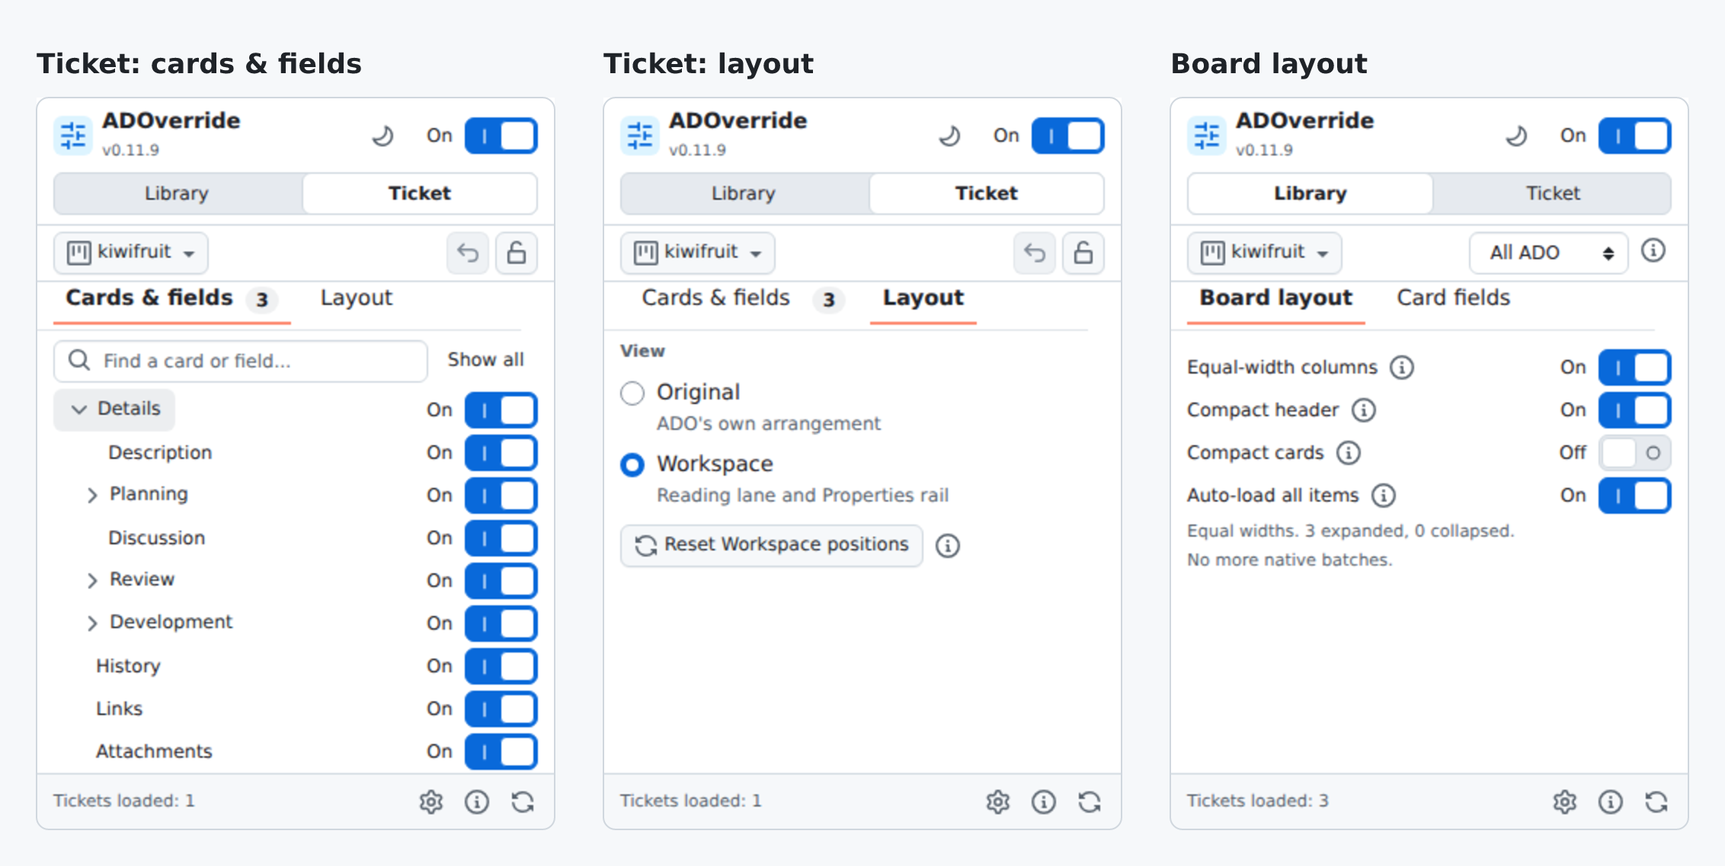
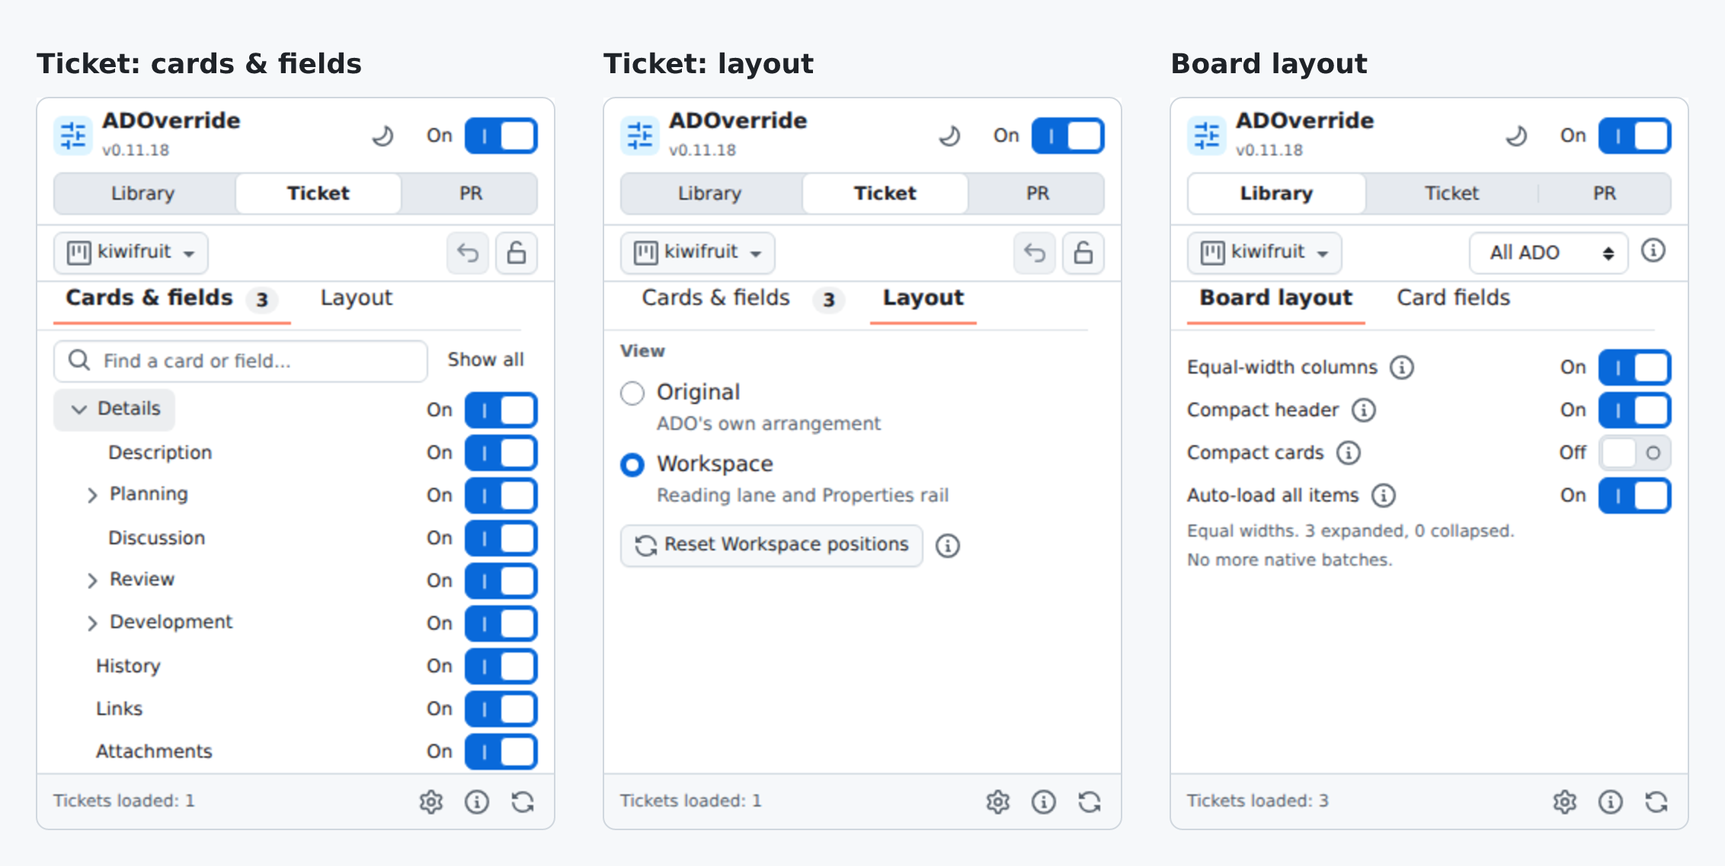
chore: prepare 0.11.18 with the new store title and PR features
Rename the package to ADOverride - Customize Azure DevOps. Include current
PR features in store copy, screenshots, privacy guidance, and release notes.
Package the README hero and copy-ready store instructions.

Copilot-Session: d2587140-a7e9-4cc3-b282-4b366887cf30

diff --git a/wxt.config.ts b/wxt.config.ts
@@ -24,7 +24,8 @@ export default defineConfig({
   hooks: {
     'build:done': async wxt => {
       for (const file of ['LICENSE', 'README.md', 'PRIVACY.md', 'docs/guide.md', 'docs/publishing.md', 'docs/chrome-web-store.md',
-        'docs/images/board-before-after.png', 'docs/images/ticket-before-after.png', 'docs/images/popup.png',
+        'docs/images/board-before-after.png', 'docs/images/board-hero.png', 'docs/images/ticket-before-after.png', 'docs/images/popup.png',
+        'docs/store/LISTING.txt', 'docs/store/START-HERE.txt',
         'docs/images/social-preview.svg', 'docs/images/social-preview.png']) {
         const target = path.join(wxt.config.outDir, file);
         await mkdir(path.dirname(target), { recursive: true });
@@ -49,8 +50,8 @@ export default defineConfig({
     },
   },
   manifest: {
-    name: 'ADOverride - Azure DevOps Boards & Work Items',
-    description: 'Declutter Azure DevOps Boards, work items and pull requests: hide fields, rearrange cards, wider Kanban columns, cleaner PRs.',
+    name: 'ADOverride - Customize Azure DevOps',
+    description: 'Hide work item fields, widen boards, and organize pull request pages in Azure DevOps. Changes only affect your browser.',
     permissions: ['storage', 'activeTab', 'scripting'],
     host_permissions: ['https://dev.azure.com/*', 'https://*.visualstudio.com/*'],
     action: { default_title: INACTIVE_TOOLBAR_TITLE, default_icon: toolbarIconPaths(false) },

diff --git a/lib/inspector.ts b/lib/inspector.ts
@@ -1,7 +1,7 @@
 import { isPageKind, parseAdoContext, type AdoContext } from './context';
 
 export const INSPECT_MESSAGE = 'ado-customize/inspect' as const;
-export const INSPECT_PROTOCOL = 42;
+export const INSPECT_PROTOCOL = 43;
 
 const CARDS = '.wit-card, .boards-card, .taskboard-card';
 const GRIDS = '[role="grid"], [role="treegrid"], .bolt-table, .grid';

diff --git a/docs/chrome-web-store.md b/docs/chrome-web-store.md
@@ -1,6 +1,6 @@
 # Chrome Web Store listing and updates
 
-The [store version](https://chromewebstore.google.com/detail/adoverride-azure-devops-b/ijeoidnjoamdkpfgbnhfajddhpakobjo) is **0.11.10**. The text in [store/LISTING.txt](store/LISTING.txt) and the images describe Boards and work items. PR features on `main` are not in that package.
+This kit is for **0.11.18**, including PR features and the new package title. Update the [existing store item](https://chromewebstore.google.com/detail/adoverride-azure-devops-b/ijeoidnjoamdkpfgbnhfajddhpakobjo) with the package, text, and screenshots together. Store approval is separate from the GitHub release.
 
 No store submission is made by the scripts in this repository.
 
@@ -8,17 +8,15 @@ No store submission is made by the scripts in this repository.
 
 Open the [Developer Dashboard](https://chrome.google.com/webstore/devconsole) with the publishing account and select ADOverride, item `ijeoidnjoamdkpfgbnhfajddhpakobjo`. **Do not add a new item.**
 
-Replace the detailed description with `store/LISTING.txt` and the first screenshot with `store/01-board.jpg`. Keep the current package and screenshots 2-5. Check the links below, save, and submit the changes.
+Upload `adoverride-0.11.18-chrome.zip` from the [v0.11.18 release](https://github.com/sinmentis/adoverride/releases/tag/v0.11.18). Verify it against the release's `SHA256SUMS`. Do not upload a source archive or the outer store-materials ZIP as the extension package.
 
-The listing ZIP contains text and images, not an extension package. Do not upload it in the dashboard's package section.
-
-For a later extension update, use the approved Chrome ZIP from the matching [GitHub release](https://github.com/sinmentis/adoverride/releases). Do not change an already published release file.
+Replace the detailed description with `store/LISTING.txt` and replace all five screenshots with the files below. Review the new PR data handling, check the links, save, and submit the update. Do not change an already published GitHub release file.
 
 ## 2. Store listing
 
 | Field | Value |
 | --- | --- |
-| Name (from manifest) | ADOverride - Azure DevOps Boards & Work Items |
+| Name (from manifest) | ADOverride - Customize Azure DevOps |
 | Language | English |
 | Category | Workflow & Planning (the current listing category) |
 | Homepage | https://github.com/sinmentis/adoverride |
@@ -27,30 +25,26 @@ For a later extension update, use the approved Chrome ZIP from the matching [Git
 | Store icon | `icon-128.png` |
 | Small promotional tile | `promo-440x280.png` |
 | Optional marquee | `marquee-1400x560.png` |
-| Screenshots, in order | `01-board.jpg` through `05-board-fields.jpg` |
+| Screenshots, in order | `01-board.jpg`, `02-workspace.jpg`, `03-ticket-fields.jpg`, `04-ticket-layout.jpg`, `05-pull-request.jpg` |
 
-The published 0.11.10 manifest supplies this short description:
-
-```text
-Declutter Azure DevOps Boards and work items: hide fields, rearrange cards, wider Kanban columns. Your Azure DevOps. Your way.
-```
-
-The title and short description come from the uploaded extension package. This text-and-images update leaves them unchanged. A suggested short description for a later package is:
+The 0.11.18 package supplies this short description (119 characters):
 
 ```text
-Hide fields, move work item sections, and make Azure DevOps board columns wider. Changes only affect your browser.
+Hide work item fields, widen boards, and organize pull request pages in Azure DevOps. Changes only affect your browser.
 ```
+
+Check that both the new title and this summary appear after uploading the package.
 
 ### Detailed description
 
-Paste all of [store/LISTING.txt](store/LISTING.txt). Do not add PR features to this version's description.
+Paste all of [store/LISTING.txt](store/LISTING.txt). It describes this package, including PR settings and their defaults.
 
 ## 3. Privacy practices
 
 ### Single purpose
 
 ```text
-Change how Azure DevOps Boards and work items look in the user's browser. Users can hide fields, move form sections, and change spacing without changing work item data or the team's process.
+Change how Azure DevOps Boards, work items, and pull requests look in the user's browser. Users can hide fields, move form sections, choose visible PR tabs, and fold activity without changing work item or PR data.
 ```
 
 ### Permission justifications
@@ -58,7 +52,7 @@ Change how Azure DevOps Boards and work items look in the user's browser. Users 
 **storage**
 
 ```text
-Save settings in the browser: Board profiles, hidden work item fields, section positions, presets, the last undoable change, and a backup before importing settings. Chrome Storage Sync is not used.
+Save settings in the browser: Board profiles, hidden work item fields, section positions, PR layout options, hidden PR tabs, blocked author display names, presets, the last undoable change, and a backup before importing settings. Chrome Storage Sync is not used.
 ```
 
 **activeTab**
@@ -91,14 +85,15 @@ Do not equate "no server collection" with "no data handling." Google's
 [User Data FAQ](https://developer.chrome.com/docs/webstore/program-policies/user-data-faq)
 requires disclosure even for local processing.
 
-The current store lists these categories. Review them against the package
-being submitted; do not remove an accurate disclosure to simplify the listing:
+Keep accurate disclosures from the earlier version and review them against 0.11.18:
 
 | Category | Why it applies |
 | --- | --- |
-| Website content | Local processing of rendered ADO structure, schema labels, and work item IDs for presentation and counts |
+| Website content | Rendered ADO structure, schema labels, work item IDs, PR status icons, author display names, and thread status |
 | Web history | Current supported-page URLs and derived organization/project/Board scope keys; no browsing-history log |
-| User activity | User-triggered visibility, layout, and preference changes handled and saved locally; no analytics or general click/keystroke log |
+| User activity | User-chosen layouts, hidden tabs, blocked author names, and other settings saved locally; no analytics or general click/keystroke log |
+
+**Review Personally identifiable information:** PR author display names are read from rendered comments, and names added to the blocked list are saved and included in settings exports. Check the dashboard's current category definitions before certifying this release; do not simply reuse the 0.11.10 answers.
 
 The extension does not extract passwords, cookie values, payment information,
 health data, precise location, or private communications for storage or
@@ -116,7 +111,7 @@ must match the linked privacy policy.
 Paste these instructions into **Test instructions**:
 
 ```text
-ADOverride has no separate account or paid features. You need an Azure DevOps Services organization and project with Azure Boards enabled.
+ADOverride has no separate account or paid features. You need an Azure DevOps Services organization and project with Azure Boards and an Azure Repos pull request containing fictional review activity.
 
 1. Sign in at https://dev.azure.com using a test organization and project. Use English and a standard Agile or Scrum process. Create a few fictional work items if the Board is empty.
 2. Open Boards > Boards, pin ADOverride, and open its popup.
@@ -125,9 +120,12 @@ ADOverride has no separate account or paid features. You need an Azure DevOps Se
 5. Open a User Story or Bug. The popup selects Ticket. Expand Details under Cards & fields and toggle a supported section such as Description.
 6. Open Layout and switch between Original and Workspace. On supported forms, Workspace shows the main text in a wide column and other fields in a sidebar.
 7. Leave layout controls unlocked and drag a section by its extension handle. Undo restores the last work item customization. Lock removes the on-page controls.
-8. Turn off ADOverride using the switch at the top of the popup. The original page layout returns. Saved settings are kept.
+8. Open the demo pull request. The popup selects PR. Overview becomes Activity, with Description and Checks beside it. Switch between them and confirm each section uses the full width.
+9. In PR > Tabs, toggle a tab such as Updates. The current tab stays visible. In PR > Blocked, add the display name of an author with both active and resolved demo threads. Resolved threads fold; active threads stay visible.
+10. Switch the native activity filter to Show everything to see update folding. Open a folded push's commit list, then switch to Files to check the compact file tree.
+11. Turn off ADOverride using the switch at the top of the popup. Its layout changes are removed and saved settings are kept. A native activity filter already selected by the extension is not automatically reset.
 
-No personal access token is required. The extension only works on dev.azure.com and HTTPS *.visualstudio.com sites. Parts it does not recognize stay unchanged. On other websites the popup asks you to open an Azure DevOps page.
+Do not approve, complete, resolve, or post on a real PR during these checks. No personal access token is required. The extension only works on dev.azure.com and HTTPS *.visualstudio.com sites. Parts it does not recognize stay unchanged. On other websites the popup asks you to open an Azure DevOps page.
 ```
 
 **Access to arrange before submission:** these instructions do not provide a
@@ -151,17 +149,7 @@ Use the dashboard's publication controls to decide when approved changes go
 live. Submission and publication are separate from
 GitHub releases and are not performed by this repository's tag workflow.
 
-### When a PR-capable package is approved for release
-
-Update the single-purpose text, data-use review, reviewer instructions, and
-screenshots to cover the new behavior. Explain that the PR defaults enable
-layout changes and hide some tabs, and that blocked authors' active and pending
-threads remain visible. Stored author display names must be considered in the
-dashboard's current data-use definitions.
-
-Only describe PR support as available through the store once the matching
-package is live. Then update the version notices in README, the guide, the
-privacy policy, and this checklist together.
+After publication, confirm the public listing shows version 0.11.18, the new title, and the PR screenshot. Upload to the existing item so current users receive the update with their settings intact.
 
 ## Regenerating images
 
@@ -181,7 +169,7 @@ npm run screenshots
 npm run store:assets
 ```
 
-Do not replace current-store popup images with a newer build's PR controls.
+Publish these images alongside the matching package, not on the older 0.11.10 listing by itself.
 
 The first screenshot is a labeled 1280x800 before/after composition using the
 same fictional Board and viewport, with a PNG copy at `docs/images/board-hero.png`.

diff --git a/README.md b/README.md
@@ -1,22 +1,24 @@
 # ADOverride
 
-ADOverride changes the layout of Azure DevOps boards and work items in Chrome. You can hide fields, move sections in work items, and make board columns wider. It only changes your view, not work item data or what other people see.
+ADOverride changes the layout of Azure DevOps boards, work items, and pull requests in Chrome. You can hide fields, move sections in work items, make board columns wider, and put PR activity, descriptions, and checks in separate tabs. It only changes your view, not work item data or what other people see.
 
 For Azure DevOps Services on `dev.azure.com` and `*.visualstudio.com`.
 
 **[Install from Chrome Web Store](https://chromewebstore.google.com/detail/adoverride-azure-devops-b/ijeoidnjoamdkpfgbnhfajddhpakobjo)** | [Getting started](docs/guide.md#install-in-chrome) | [Manual install / build from source](docs/guide.md#manual-install)
 
-**The store version is v0.11.10.** It supports Boards and work items. Pull request support is on `main` (v0.11.17), but **is not in the store version yet**.
+**[Version 0.11.18](https://github.com/sinmentis/adoverride/releases/tag/v0.11.18)** includes PR support and changes the package title to **ADOverride - Customize Azure DevOps**. Chrome Web Store updates need separate approval. If the store still shows 0.11.10, that version only supports Boards and work items.
 
 [![The same demo board with ADOverride off and on](docs/images/board-hero.png)](docs/images/board-hero.png)
 
 ## Get started
 
-1. Install from the store, pin **ADOverride**, and open an Azure DevOps Kanban board or work item.
-2. Click the extension icon. **Library** has the Board settings. **Ticket** has the work item settings.
+1. Install from the store, pin **ADOverride**, and open an Azure DevOps Kanban board, work item, or pull request.
+2. Click the extension icon. **Library** has the Board settings, **Ticket** has the work item settings, and **PR** has the pull request settings.
 3. Turn individual options on or off.
 
 The default preset applies automatically and hides some work item fields. Use **Ticket > Cards & fields > Show all** to show them again. The switch at the top of the popup turns off layout changes and keeps your saved settings.
+
+When updating from 0.11.10, the PR settings turn on by default. They hide Updates and some extension tabs and select Active comments once. You can change this in the popup's PR section. Your existing Board and work item settings are kept.
 
 Chrome updates store installations automatically. Use manual installation only for development or trying a build that is not in the store.
 
@@ -38,12 +40,12 @@ Some features need English page labels. Board layout changes work on supported K
 
 ## Privacy
 
-Settings stay in your browser. The extension reads the current Azure DevOps page address and layout, and gets form-layout information from your organization using your existing sign-in. It does not send your work item data to the developer or save changes to your work items. There are no ads or analytics. [Privacy policy](PRIVACY.md).
+Settings stay in your browser. The extension reads the current Azure DevOps page address and layout, and gets form-layout information from your organization using your existing sign-in. On PR pages it also reads comment author names and thread status for filtering. It does not send your work item or PR data to the developer, save changes to your work items, or post PR comments. There are no ads or analytics. [Privacy policy](PRIVACY.md).
 
 *Screenshots use fictional work items and replayed layouts.*
 
-## Pull requests (not yet in the store)
+## Pull requests
 
-The version on `main` splits Overview into **Activity**, **Description**, and **Checks** tabs. Each tab uses the full width. You can fold passed checks, repeated updates, and resolved threads from selected authors. Active and pending threads stay visible. [PR settings](docs/guide.md#tidy-a-pull-request) | [Build from source](docs/guide.md#from-source).
+Overview splits into **Activity**, **Description**, and **Checks** tabs. Each tab uses the full width. You can fold passed checks, reviewers who have not voted, repeated updates, and resolved threads from selected authors. Active and pending threads stay visible. Choose which PR tabs to show and hide comment rows from the Files tree. [PR settings](docs/guide.md#tidy-a-pull-request).
 
 [Guide](docs/guide.md) | [Privacy](PRIVACY.md) | [Contributing](CONTRIBUTING.md) | [Security](SECURITY.md) | [MIT](LICENSE)

diff --git a/docs/guide.md b/docs/guide.md
@@ -1,14 +1,14 @@
 # ADOverride guide
 
-ADOverride changes the layout of Azure DevOps boards and work items in Chrome. You can hide fields, move sections in work items, and make board columns wider. It only changes your view, not work item data or what other people see.
+ADOverride changes the layout of Azure DevOps boards, work items, and pull requests in Chrome. You can hide fields, move sections in work items, make board columns wider, and put PR activity, descriptions, and checks in separate tabs. It only changes your view, not work item data or what other people see.
 
-**The store version is v0.11.10.** It supports Boards and work items. This guide also covers PR features on `main` (v0.11.17), which are not in the store or latest tagged release yet.
+**This guide covers v0.11.18**, including PR support. Chrome Web Store approval is separate from the GitHub release. Check the version on the listing; the older 0.11.10 store package only supports Boards and work items.
 
 ## Install in Chrome
 
 1. [Install ADOverride from Chrome Web Store](https://chromewebstore.google.com/detail/adoverride-azure-devops-b/ijeoidnjoamdkpfgbnhfajddhpakobjo).
-2. Pin the extension and open an Azure DevOps Kanban board or work item.
-3. Click the extension icon. **Library** has the Board settings. **Ticket** has the work item settings.
+2. Pin the extension and open an Azure DevOps Kanban board, work item, or pull request.
+3. Click the extension icon. **Library** has the Board settings, **Ticket** has the work item settings, and **PR** has the pull request settings.
 
 The default preset applies automatically. It widens Board columns, turns on automatic item loading, and switches work items to Workspace. It also hides some fields, including estimates, dates, and severity where matched.
 
@@ -52,9 +52,7 @@ Load `.output/chrome-mv3` using the manual Chrome steps above.
 | Automatic native **Show more items** loading | Layout lock and one-step Undo |
 | Per-board, project, organization, or global settings | Standalone tickets and tickets opened from a Board |
 
-In the newer source build, pull request pages get a cleaner Overview (Activity,
-Description and Checks tabs, passed checks and silent reviewers folded, Active
-comments first) and a tighter Files tree. See [Tidy a pull request](#tidy-a-pull-request).
+Pull request settings split Overview into Activity, Description, and Checks tabs. You can fold passed checks and reviewers who have not voted, start with Active comments, and reduce spacing in the Files tree. See [Tidy a pull request](#tidy-a-pull-request).
 
 Board and Ticket support local presets, light/dark popup themes, and configuration
 export/import with a preview and pre-import backup. Native values, drafts, Save
@@ -127,7 +125,7 @@ that must remain reachable.
 
 ## Tidy a pull request
 
-**Newer source builds only; not in the store or latest release v0.11.10.**
+**Included in v0.11.18.** When upgrading from 0.11.10, PR settings turn on by default. Existing Board and work item settings are kept.
 
 The popup selects **PR** on a pull request page. PR settings are one global
 profile; **Reset to kiwifruit** turns every option back on.

diff --git a/docs/publishing.md b/docs/publishing.md
@@ -3,17 +3,15 @@
 ## GitHub discoverability
 
 Repository: [sinmentis/adoverride](https://github.com/sinmentis/adoverride).
-The repository and [Chrome Web Store item](https://chromewebstore.google.com/detail/adoverride-azure-devops-b/ijeoidnjoamdkpfgbnhfajddhpakobjo)
-are public. The current store and latest tagged release are **0.11.10**;
-`main` is newer. Store submissions remain a separate, manual approval.
+The repository and [Chrome Web Store item](https://chromewebstore.google.com/detail/adoverride-azure-devops-b/ijeoidnjoamdkpfgbnhfajddhpakobjo) are public. This release is **0.11.18**. Store submissions need separate approval, so check the live listing before saying an update is available there.
 
 **Short explanation**
 
-> Hide fields, move sections in work items, and make Azure DevOps board columns wider.
+> Change layouts on Azure DevOps boards, work items, and pull requests.
 
 **Description**
 
-> Chrome extension for Azure DevOps. Hide fields, move sections in work items, and make board columns wider. Only affects your browser.
+> Chrome extension for Azure DevOps boards, work items, and pull requests. Hide fields, move sections, and fold PR activity. Only affects your browser.
 
 **Website**
 
@@ -34,18 +32,15 @@ Keep GitHub repository metadata and the social preview aligned with the listing.
 
 ## Chrome Web Store copy
 
-Use [store/LISTING.txt](store/LISTING.txt) for the current store's detailed
-description and the [update checklist](chrome-web-store.md) for assets, privacy
-declarations, permission explanations, and reviewer instructions. Edit the
-existing item, not a new listing.
+Use [store/LISTING.txt](store/LISTING.txt) for the 0.11.18 description and the [update checklist](chrome-web-store.md) for the package, images, privacy declarations, and reviewer instructions. Update the existing item, not a new listing.
 
 **Name**
 
-> ADOverride - Azure DevOps Boards & Work Items
+> ADOverride - Customize Azure DevOps
 
-**Short description (current published manifest)**
+**Short description (0.11.18 manifest)**
 
-> Declutter Azure DevOps Boards and work items: hide fields, rearrange cards, wider Kanban columns. Your Azure DevOps. Your way.
+> Hide work item fields, widen boards, and organize pull request pages in Azure DevOps. Changes only affect your browser.
 
 The title and summary are package-bound. Changing the detailed description or
 images does not change the installed package. Keep PR claims out of the live
@@ -63,6 +58,7 @@ listing until a matching release is available there.
   `node scripts/store-media.mjs`.
 - `docs/images/popup.png` shows the real popup: Ticket cards & fields, Ticket
   layout and Board layout.
+- `docs/store/05-pull-request.jpg` shows the full-width Checks tab from the current extension with fictional PR data.
 - Generate the comparisons and popup gallery with `npm run build` then
   `npm run screenshots`. Use a build matching the version being advertised;
   recapturing with main can expose controls not yet in the store.

diff --git a/PRIVACY.md b/PRIVACY.md
@@ -7,9 +7,7 @@ pull requests in your browser. It has no developer-operated backend, analytics, 
 telemetry. The developers do not receive your Azure DevOps data through the
 extension.
 
-**Version scope:** the current Chrome Web Store version, 0.11.10, customizes
-Boards and work items. Pull request handling described below applies to newer
-source builds and is not included in that store version.
+**Version scope:** this policy covers v0.11.18, including pull request features. The older 0.11.10 store package only customizes Boards and work items and does not perform the PR handling described below.
 
 ## Information handled in your browser
 
@@ -82,7 +80,7 @@ settings. Uninstalling it removes its extension storage; manually exported
 files remain wherever you saved them and must be deleted separately. Temporary
 page inspection and metadata caches are held in memory.
 
-In newer source builds, the last PR Overview tab is saved under
+The last PR Overview tab is saved under
 `adoverride.pr.overviewTab` in the Azure DevOps site's local storage. Uninstalling
 the extension does not remove this site preference. It can be removed
 separately from that site's local storage.
